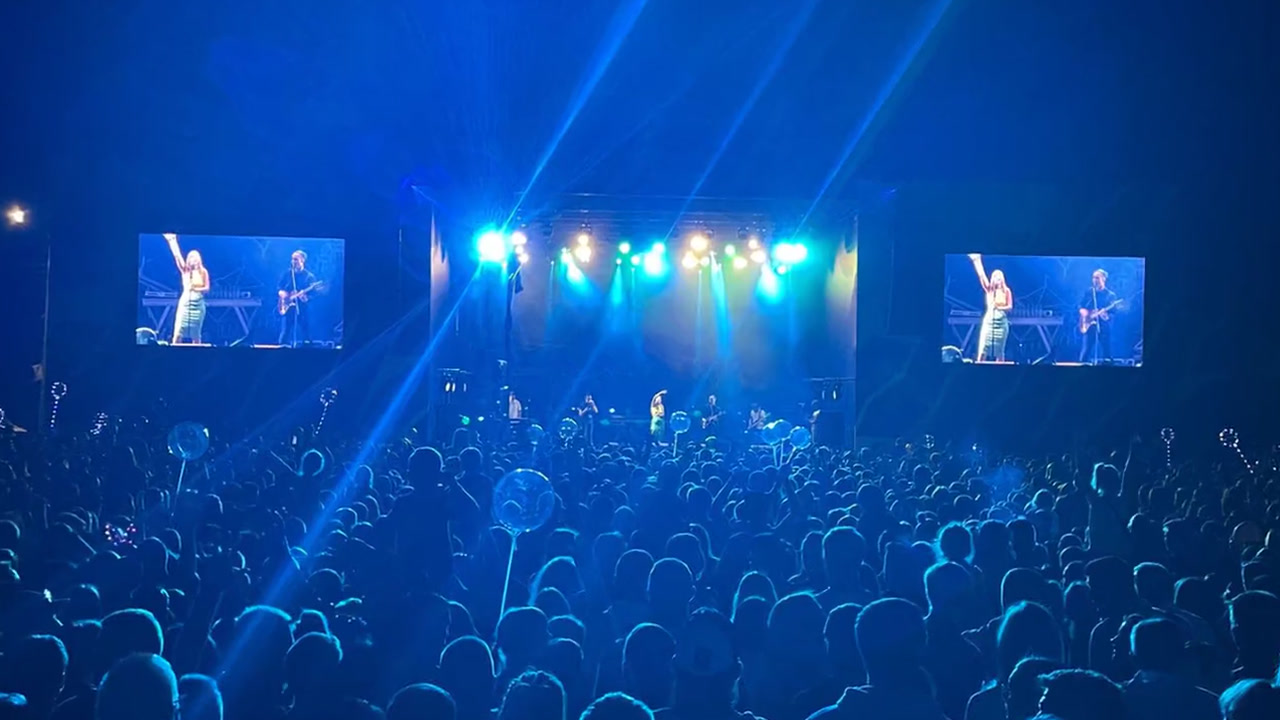
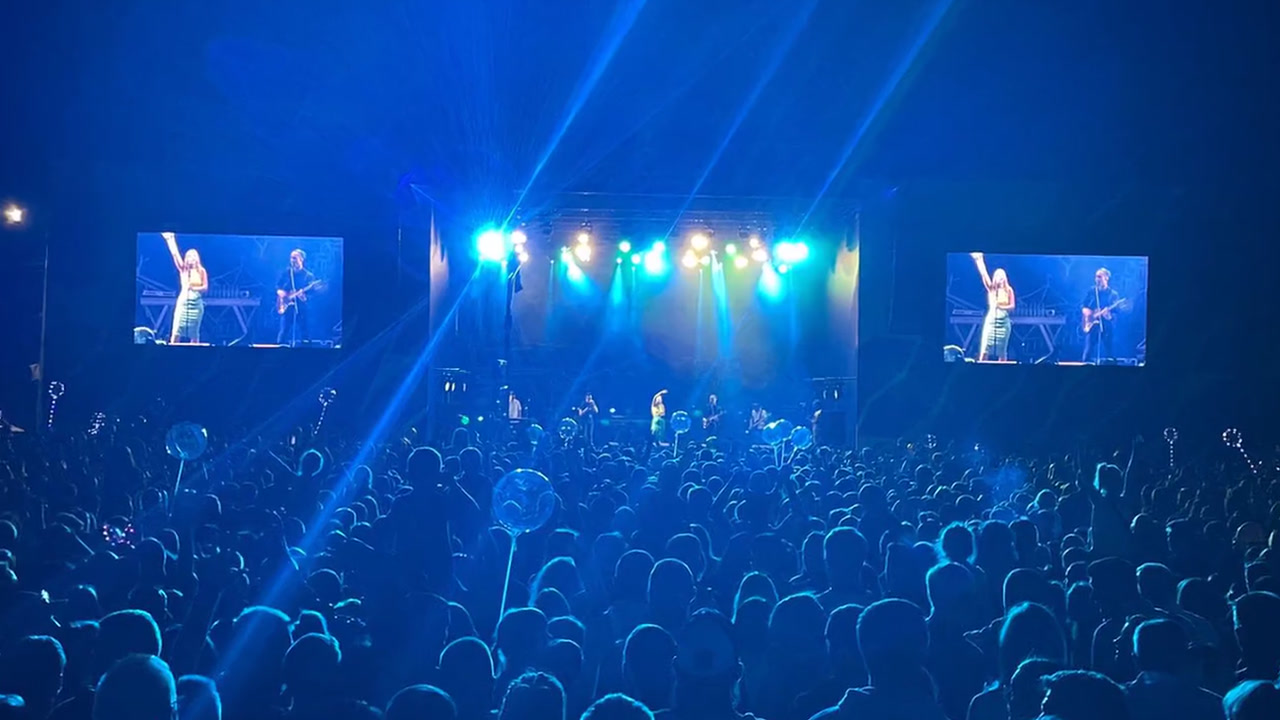
CitySound: ролик без дрожания (зум по кадру, рендер в 4K), кнопки MAX и Telegram с иконками

diff --git a/tools/citysound/build.py b/tools/citysound/build.py
@@ -22,6 +22,9 @@ MAIL = "zakaz@citysound.ru"
 TG = "https://t.me/citysoundteam"
 VK = "https://vk.com/citysound_nn"
 MAPS = "https://yandex.ru/maps/org/siti_saund/1786738235/"
+MAX = "https://max.ru/"  # у компании нет чата MAX — при запуске подставим их ссылку
+ICO_TG = '<svg viewBox="0 0 24 24" aria-hidden="true"><path fill="currentColor" d="M21.9 4.6 18.7 19.3c-.2 1-.9 1.3-1.7.8l-4.8-3.5-2.3 2.2c-.3.3-.5.5-1 .5l.3-4.8 8.8-8c.4-.3-.1-.5-.6-.2L8.5 13.1 3.8 11.7c-1-.3-1-1 .2-1.5l18.3-7c.9-.3 1.6.2 1.6 1.4z"/></svg>'
+ICO_MAX = '<svg viewBox="0 0 24 24" aria-hidden="true"><path fill="currentColor" d="M12 2a10 10 0 0 0-8.6 15.1L2 22l5-1.3A10 10 0 1 0 12 2zm-4.2 6.5h1.6l2.6 4.3 2.6-4.3h1.6v7h-1.5v-4.4l-2.7 4.4-2.7-4.4v4.4H7.8z"/></svg>'
 
 # ---------------------------------------------------------------- картинки
 def cand(prefix):
@@ -191,6 +194,7 @@ def html():
 <h1>Звук, свет, сцена и экраны<br>для вашего мероприятия — <em>под ключ.</em></h1>
 <p class="lead">Чистый и разборчивый звук на всей площадке, грамотно направленный свет с нужными оттенками в нужное время — основа впечатления гостей. Чёткий регламент и отсутствие вдруг возникающих проблем — сохранённые нервы организаторов.</p>
 <div class="actions"><a class="button primary" href="#request">Отправить заявку ↗</a><button class="text-button" type="button" data-start-quiz>Подобрать комплект за 5 вопросов</button></div>
+<div class="msgrs"><a class="msg msg-max" href="{MAX}" target="_blank" rel="noopener">{ICO_MAX}Написать в MAX</a><a class="msg msg-tg" href="{TG}" target="_blank" rel="noopener">{ICO_TG}Написать в Telegram</a></div>
 <ul class="proofs"><li><b>с 1991</b><span>года на рынке технического обеспечения массовых мероприятий</span></li><li><b>Martin Audio MLA</b><span>мультимодульный массив, уникальный в масштабе России</span></li><li><b>Alphastage-80</b><span>мобильная гидравлическая сцена</span></li><li><b>своя база</b><span>склады, мастерские, мойка оборудования, транспорт</span></li></ul></div></section>
 
 <section id="services"><div class="head"><div><p class="eyebrow">ПРОКАТ И ОБСЛУЖИВАНИЕ</p><h2>Что берём на себя.</h2></div><p>Не аренда колонок, а техническое обеспечение мероприятия целиком: от ТЗ и согласования с площадкой до демонтажа.</p></div><div class="svcs">{svc}</div></section>
@@ -220,7 +224,8 @@ def html():
 
 <section id="request" class="lead-sec tint"><div><p class="eyebrow">ЗАЯВКА</p><h2>Расскажите о мероприятии — предложим техобеспечение с понятным каждым этапом.</h2>
 <p>Перезвоним, уточним детали, запросим документацию площадки и составим подробное ТЗ и предложение.</p>
-<p class="contacts"><a href="tel:{TEL}">{PHONE}</a><a href="tel:+78312479060">{PHONE2}</a><a href="mailto:{MAIL}">{MAIL}</a><a href="{TG}" target="_blank" rel="noopener">Telegram: citysoundteam</a><a href="{VK}" target="_blank" rel="noopener">ВКонтакте</a></p>
+<p class="contacts"><a href="tel:{TEL}">{PHONE}</a><a href="tel:+78312479060">{PHONE2}</a><a href="mailto:{MAIL}">{MAIL}</a></p>
+<div class="msgrs"><a class="msg msg-max" href="{MAX}" target="_blank" rel="noopener">{ICO_MAX}MAX</a><a class="msg msg-tg" href="{TG}" target="_blank" rel="noopener">{ICO_TG}Telegram</a><a class="msg msg-vk" href="{VK}" target="_blank" rel="noopener"><svg viewBox="0 0 24 24" aria-hidden="true"><path fill="currentColor" d="M13.2 18.5c-6.6 0-10.4-4.5-10.5-12h3.3c.1 5.5 2.5 7.8 4.5 8.3V6.5h3.1v4.7c1.9-.2 3.9-2.3 4.6-4.7h3.1c-.5 2.9-2.7 5.1-4.2 6 1.5.7 4 2.6 4.9 6h-3.4c-.7-2.3-2.6-4.1-5-4.3v4.3z"/></svg>ВКонтакте</a></div>
 <p class="addr">603135, Нижний Новгород, ул. Снежная, 44 · пн–пт 10:00–18:00 · <a href="{MAPS}" target="_blank" rel="noopener">на карте</a></p></div>
 <form id="lead-form" action="send.php" method="post" novalidate><input class="hp" type="text" name="_gotcha" tabindex="-1" autocomplete="off" aria-hidden="true">
 <label class="field" for="phone">Телефон<input id="phone" name="Телефон" type="tel" inputmode="tel" autocomplete="tel" placeholder="+7 (___) ___-__-__" required></label>
@@ -230,8 +235,8 @@ def html():
 <button class="button primary" type="submit">Отправить заявку ↗</button><p class="error" id="form-error" role="alert"></p>
 <p class="consent">Нажимая кнопку, вы соглашаетесь с политикой обработки персональных данных.</p></form></section>
 
-<footer><div><img src="img/logo.png" alt="" height="40"><p>ООО «Сити-Саунд» · Нижний Новгород, ул. Снежная, 44 · {PHONE} · {MAIL}</p></div><p class="foot-note">Руководство: Александр Косарев (СЕО), Андрей Бирюков (исполнительный директор). Демонстрация студии «Форма сайта»: тексты, фото и логотип — компании СитиСаунд, ролик смонтирован из фотографий её мероприятий. <a href="https://citysound.ru/" target="_blank" rel="noopener">Действующий сайт ↗</a></p></footer>
-<div class="mobile-bar"><a href="tel:{TEL}">Позвонить</a><a href="{TG}" target="_blank" rel="noopener">Telegram</a><a href="#request">Заявка</a></div>
+<footer><div><img src="img/logo.png" alt="" height="40"><p>ООО «Сити-Саунд» · Нижний Новгород, ул. Снежная, 44 · {PHONE} · {MAIL}</p></div><p class="foot-note">Руководство: Александр Косарев (СЕО), Андрей Бирюков (исполнительный директор). Демонстрация студии «Форма сайта»: тексты, фото и логотип — компании СитиСаунд, ролик смонтирован из фотографий её мероприятий. Кнопка MAX ведёт на max.ru — при запуске подставим чат компании. <a href="https://citysound.ru/" target="_blank" rel="noopener">Действующий сайт ↗</a></p></footer>
+<div class="mobile-bar"><a href="tel:{TEL}">Позвонить</a><a class="mb-max" href="{MAX}" target="_blank" rel="noopener">{ICO_MAX}MAX</a><a class="mb-tg" href="{TG}" target="_blank" rel="noopener">{ICO_TG}Telegram</a><a href="#request">Заявка</a></div>
 <dialog id="photo-dialog"><button type="button" class="close" data-close aria-label="Закрыть">×</button><img id="photo-large" alt=""></dialog>
 <dialog id="result-dialog"><button type="button" class="close" data-close aria-label="Закрыть">×</button><div id="result-body"></div></dialog>
 <script src="app.js" defer></script></body></html>'''
@@ -245,6 +250,7 @@ p{margin:0 0 12px}.eyebrow{font-size:12px;letter-spacing:.14em;color:var(--acc);
 .button{display:inline-flex;align-items:center;justify-content:center;gap:8px;min-height:52px;padding:0 26px;border-radius:99px;border:2px solid transparent;font-weight:700;text-decoration:none;cursor:pointer;font-size:16px}
 .button.primary{background:var(--acc);color:#fff}.button.primary:hover{background:var(--acc-d)}.button.ghost{border-color:var(--line);background:transparent;color:var(--ink)}.button.small{min-height:42px;padding:0 18px;font-size:14px}
 .text-button{background:none;border:0;color:var(--ink);text-decoration:underline;text-underline-offset:4px;cursor:pointer;font-size:16px;padding:12px 4px}
+.msgrs{display:flex;flex-wrap:wrap;gap:10px;margin:-18px 0 34px}.msg{display:inline-flex;align-items:center;gap:8px;min-height:44px;padding:0 16px;border-radius:99px;font-weight:700;font-size:15px;text-decoration:none;border:1px solid rgba(255,255,255,.18);background:rgba(255,255,255,.08);backdrop-filter:blur(6px)}.msg svg{width:20px;height:20px}.msg-max{background:#5a4bff;border-color:#5a4bff;color:#fff}.msg-tg{background:#27a7e7;border-color:#27a7e7;color:#fff}.msg-vk{background:#0077ff;border-color:#0077ff;color:#fff}.lead-sec .msgrs{margin:4px 0 22px}
 .demo{display:flex;justify-content:space-between;gap:10px;padding:7px 24px;background:#000;color:#bbb;font-size:13px}
 .header{position:sticky;top:0;z-index:20;display:flex;align-items:center;gap:26px;padding:12px 24px;background:rgba(11,12,16,.85);backdrop-filter:blur(12px);border-bottom:1px solid var(--line)}
 .header nav{display:flex;gap:22px;margin-left:auto;font-size:15px}.header nav a{text-decoration:none;color:var(--muted)}.header nav a:hover{color:#fff}
@@ -298,8 +304,8 @@ body>footer{padding:40px 24px 110px;max-width:1240px;margin:0 auto;border-top:1p
 @media (max-width:960px){.svcs,.methods{grid-template-columns:1fr 1fr}.pfs{grid-template-columns:repeat(3,1fr)}.logos{grid-template-columns:repeat(4,1fr)}.letters{grid-template-columns:repeat(3,1fr)}.about{grid-template-columns:1fr}.about-photo{position:static}.header nav{display:none}.lead-sec{grid-template-columns:1fr}}
 @media (max-width:760px){section{padding:56px 16px}.head{grid-template-columns:1fr;gap:10px;margin-bottom:22px}.hero{min-height:auto;padding:70px 16px 40px}.hero h1{font-size:clamp(34px,10vw,44px)}.proofs{grid-template-columns:1fr 1fr}.svcs,.methods,.newss{grid-template-columns:1fr}.pfs{grid-template-columns:1fr 1fr}.reviews{grid-template-columns:1fr}.founder{grid-template-columns:1fr}.founder img{max-width:320px;grid-column:1;grid-row:1}.founder>div{grid-column:1;grid-row:2}.quiz{padding:18px}.quiz-options{grid-template-columns:1fr}.turnkey{columns:1}
 .header{padding:10px 16px;gap:12px}.hphone small{display:none}.hphone a{font-size:15px}.header .button{display:none}.demo span:last-child{display:none}body>footer{grid-template-columns:1fr;padding-bottom:110px}
-.mobile-bar{display:grid;grid-template-columns:1fr 1fr 1fr;gap:8px;position:fixed;left:0;right:0;bottom:0;padding:10px 12px calc(10px + env(safe-area-inset-bottom));background:rgba(11,12,16,.92);backdrop-filter:blur(10px);border-top:1px solid var(--line);z-index:30}
-.mobile-bar a{display:flex;align-items:center;justify-content:center;min-height:48px;border-radius:12px;font-weight:700;text-decoration:none;background:#1c1f27}.mobile-bar a:last-child{background:var(--acc)}}
+.mobile-bar{display:grid;grid-template-columns:1fr 1fr 1fr 1fr;gap:6px;position:fixed;left:0;right:0;bottom:0;padding:10px 12px calc(10px + env(safe-area-inset-bottom));background:rgba(11,12,16,.92);backdrop-filter:blur(10px);border-top:1px solid var(--line);z-index:30}
+.mobile-bar a{display:flex;align-items:center;justify-content:center;gap:5px;min-height:48px;border-radius:12px;font-weight:700;font-size:13.5px;text-decoration:none;background:#1c1f27;padding:0 4px}.mobile-bar a svg{width:18px;height:18px;flex:0 0 auto}.mobile-bar .mb-max{background:#5a4bff}.mobile-bar .mb-tg{background:#27a7e7}.mobile-bar a:last-child{background:var(--acc)}}
 """
 
 JS = r"""
